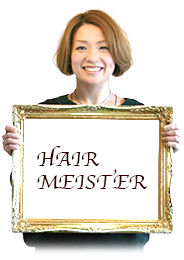
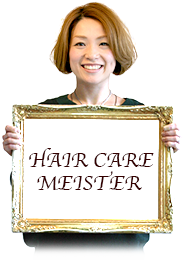
画像追加

Changed region(s): [[0.2717, 0.0, 0.7609, 0.3077], [0.163, 0.5538, 0.8424, 0.7385]]

diff --git a/stylesheets/common.css b/stylesheets/common.css
@@ -348,6 +348,10 @@ li{
   border-bottom: dotted 2px #7c6551;
 }
 
+.details-button {
+  margin: 0 0 0 80%;
+}
+
 /*
  ** home contents news li 
  */
@@ -421,8 +425,10 @@ li{
 /*
  ** home contents plan
  */
-.home .contents .plan img {
-  margin: 10px 30px;
+.home .contents .plan .meister img {
+  width: 100%;
+  max-width: 100%;
+  height: auto;
 }
 
 /*
@@ -518,8 +524,11 @@ li{
  ** home contents privilege
  */
  .home .contents .privilege img{
-  margin: 10px 10px;
+  margin: 10px 30px;
   vertical-align: middle;
+}
+.home .contents .privilege span {
+  margin: 0 0 0 75%;
 }
 .home .contents .privilege li{
   list-style-type: square;

diff --git a/index.php b/index.php
@@ -154,13 +154,13 @@ foreach($Schedule->result as $result) {
           		</tr>
           	</tbody>
           </table>
-          <p class="point">※店長・ディレクターカット・・・プラス￥525-<br />※オーナーカット・・・プラス￥1,050-<br />※ロング料金はかかりません。<br />※是非、あなたの大切なご家族、お友達をご紹介して頂いた方には<br />次回、全メニュー<span class="price-off">30%OFF</span>で施術させて頂きます。<a href="menus/"><img src="images/home/menu-details.png" alt="メニュー詳細ボタン" /></a></p>
+          <p class="point">※店長・ディレクターカット・・・プラス￥525-<br />※オーナーカット・・・プラス￥1,050-<br />※ロング料金はかかりません。<br />※是非、あなたの大切なご家族、お友達をご紹介して頂いた方には<br />次回、全メニュー<span class="price-off">30%OFF</span>で施術させて頂きます。<br><span class="details-button"><a href="menus/"><img src="images/home/menu-details.png" alt="メニュー詳細ボタン" /></a></span></p>
         </div><!--
 
      --><div class="panel plan">
-          <h3>小池のオススメプラン！</h3>
-          <p>冬は乾燥の季節です。あなたの髪も乾燥していませんか？髪に保湿と潤いを与えて健康な髪を整えるサポートを致します。</p><p class="panel plan_img"><img src="images/home/test_img.jpg" alt="unripeプラン1" /><!--
-          --><img src="images/home/test_img.jpg" alt="unripeプラン2" /></p>
+          <h3>ヘアマイスターのアドバイス！</h3>
+          <p>季節に合わせたヘアケアは健康な髪を保つのにとても大切です。あなたの髪をサポートするアドバイスを紹介します。<br><span class="details-button"><a href="hair-meisters/"><img src="images/home/menu-details.png" alt="メニュー詳細ボタン" /></a></span></p>
+          <p class="meister"><a href="/hair-meisters"><img src="images/home/meister02.jpg" alt="ヘアマイスターアドバイス1" /></a></p>
         </div><!--
 
      --><div class="panel calendar">
@@ -203,7 +203,7 @@ foreach($Schedule->result as $result) {
 
      --><div class="panel privilege">
           <h3>製品情報</h3>
-          <p><img src="images/home/product01.jpg" alt="unripe製品1" /><img src="images/home/product02.jpg"／alt="unripe製品2" /><br />ああああああああああああああああああああああああああああああああああああああああああああああああああああああああああああああああああああああ<a href="goods/"><img src="images/home/menu-details.png" alt="メニュー詳細ボタン" /></a></p>
+          <p>Unripeで使用しているシャンプーやトリートメント剤、カラー剤などはお客様の髪に最適なこだわりある製品を取り揃えております。<br><img src="images/home/test_img.jpg" alt="unripe製品1" /><img src="images/home/test_img.jpg"／alt="unripe製品2" /><span class="details-button"><a href="goods/"><img src="images/home/menu-details.png" alt="メニュー詳細ボタン" /></a></span></p>
         </div>
     	</div><!--
     	

diff --git a/hair-meisters/index.php b/hair-meisters/index.php
@@ -4,7 +4,7 @@
 <meta http-equiv="Content-Type" content="text/html; charset=utf-8">
 <meta http-equiv="X-UA-Compatible" content="chrome=1,IE=9">
 <meta http-equiv="X-UA-Compatible" content="IE=8">
-<title>Unripe| ヘアマイスター</title>
+<title>Unripe| ヘアケアマイスター</title>
 <meta name="keywords" content="">
 <meta name="description" content="">
 <meta http-equiv="Content-Script-Type" content="text/javascript">
@@ -48,8 +48,8 @@
     <div id="contents" class="container">
             
       <div class="menu">
-          <h3>【ヘアマイスター】</h3>
-          <p>ヘアマイスターはヘア知識が豊富で、お客様の毛髪診断が正しく判断し、それに対する処置・アドバイスが的確に出来る人です。<br>厳正なる4段階の認定試験にすべて合格した人にのみ贈られる舞踊業界において名誉と権威のある称号です。</p>
+          <h3>【ヘアケアマイスター】</h3>
+          <p>ヘアケアマイスターはヘア知識が豊富で、お客様の毛髪診断を正しく判断し、それに対する処置・アドバイスが的確に出来る人です。<br>厳正なる4段階の認定試験にすべて合格した人にのみ贈られる舞踊業界において名誉と権威のある称号です。</p>
         </div>
         
         <div class="panel m-detail">

diff --git a/partials/hair-meisters/header.php b/partials/hair-meisters/header.php
@@ -10,6 +10,6 @@ $replaceUrl = preg_replace('/\//', ' ', $uri);
     </div><!--
 
  --><div class="panel description">
-        <h2>ヘアマイスター</h2>
-        <p class="point">Unripeには3人のヘアマイスターがおります。髪のお悩みは私達にお任せ下さい！</p>
+        <h2>ヘアケアマイスター</h2>
+        <p class="point">Unripeには3人のヘアケアマイスターがおります。髪のお悩みは私達にお任せ下さい！</p>
     </div>
